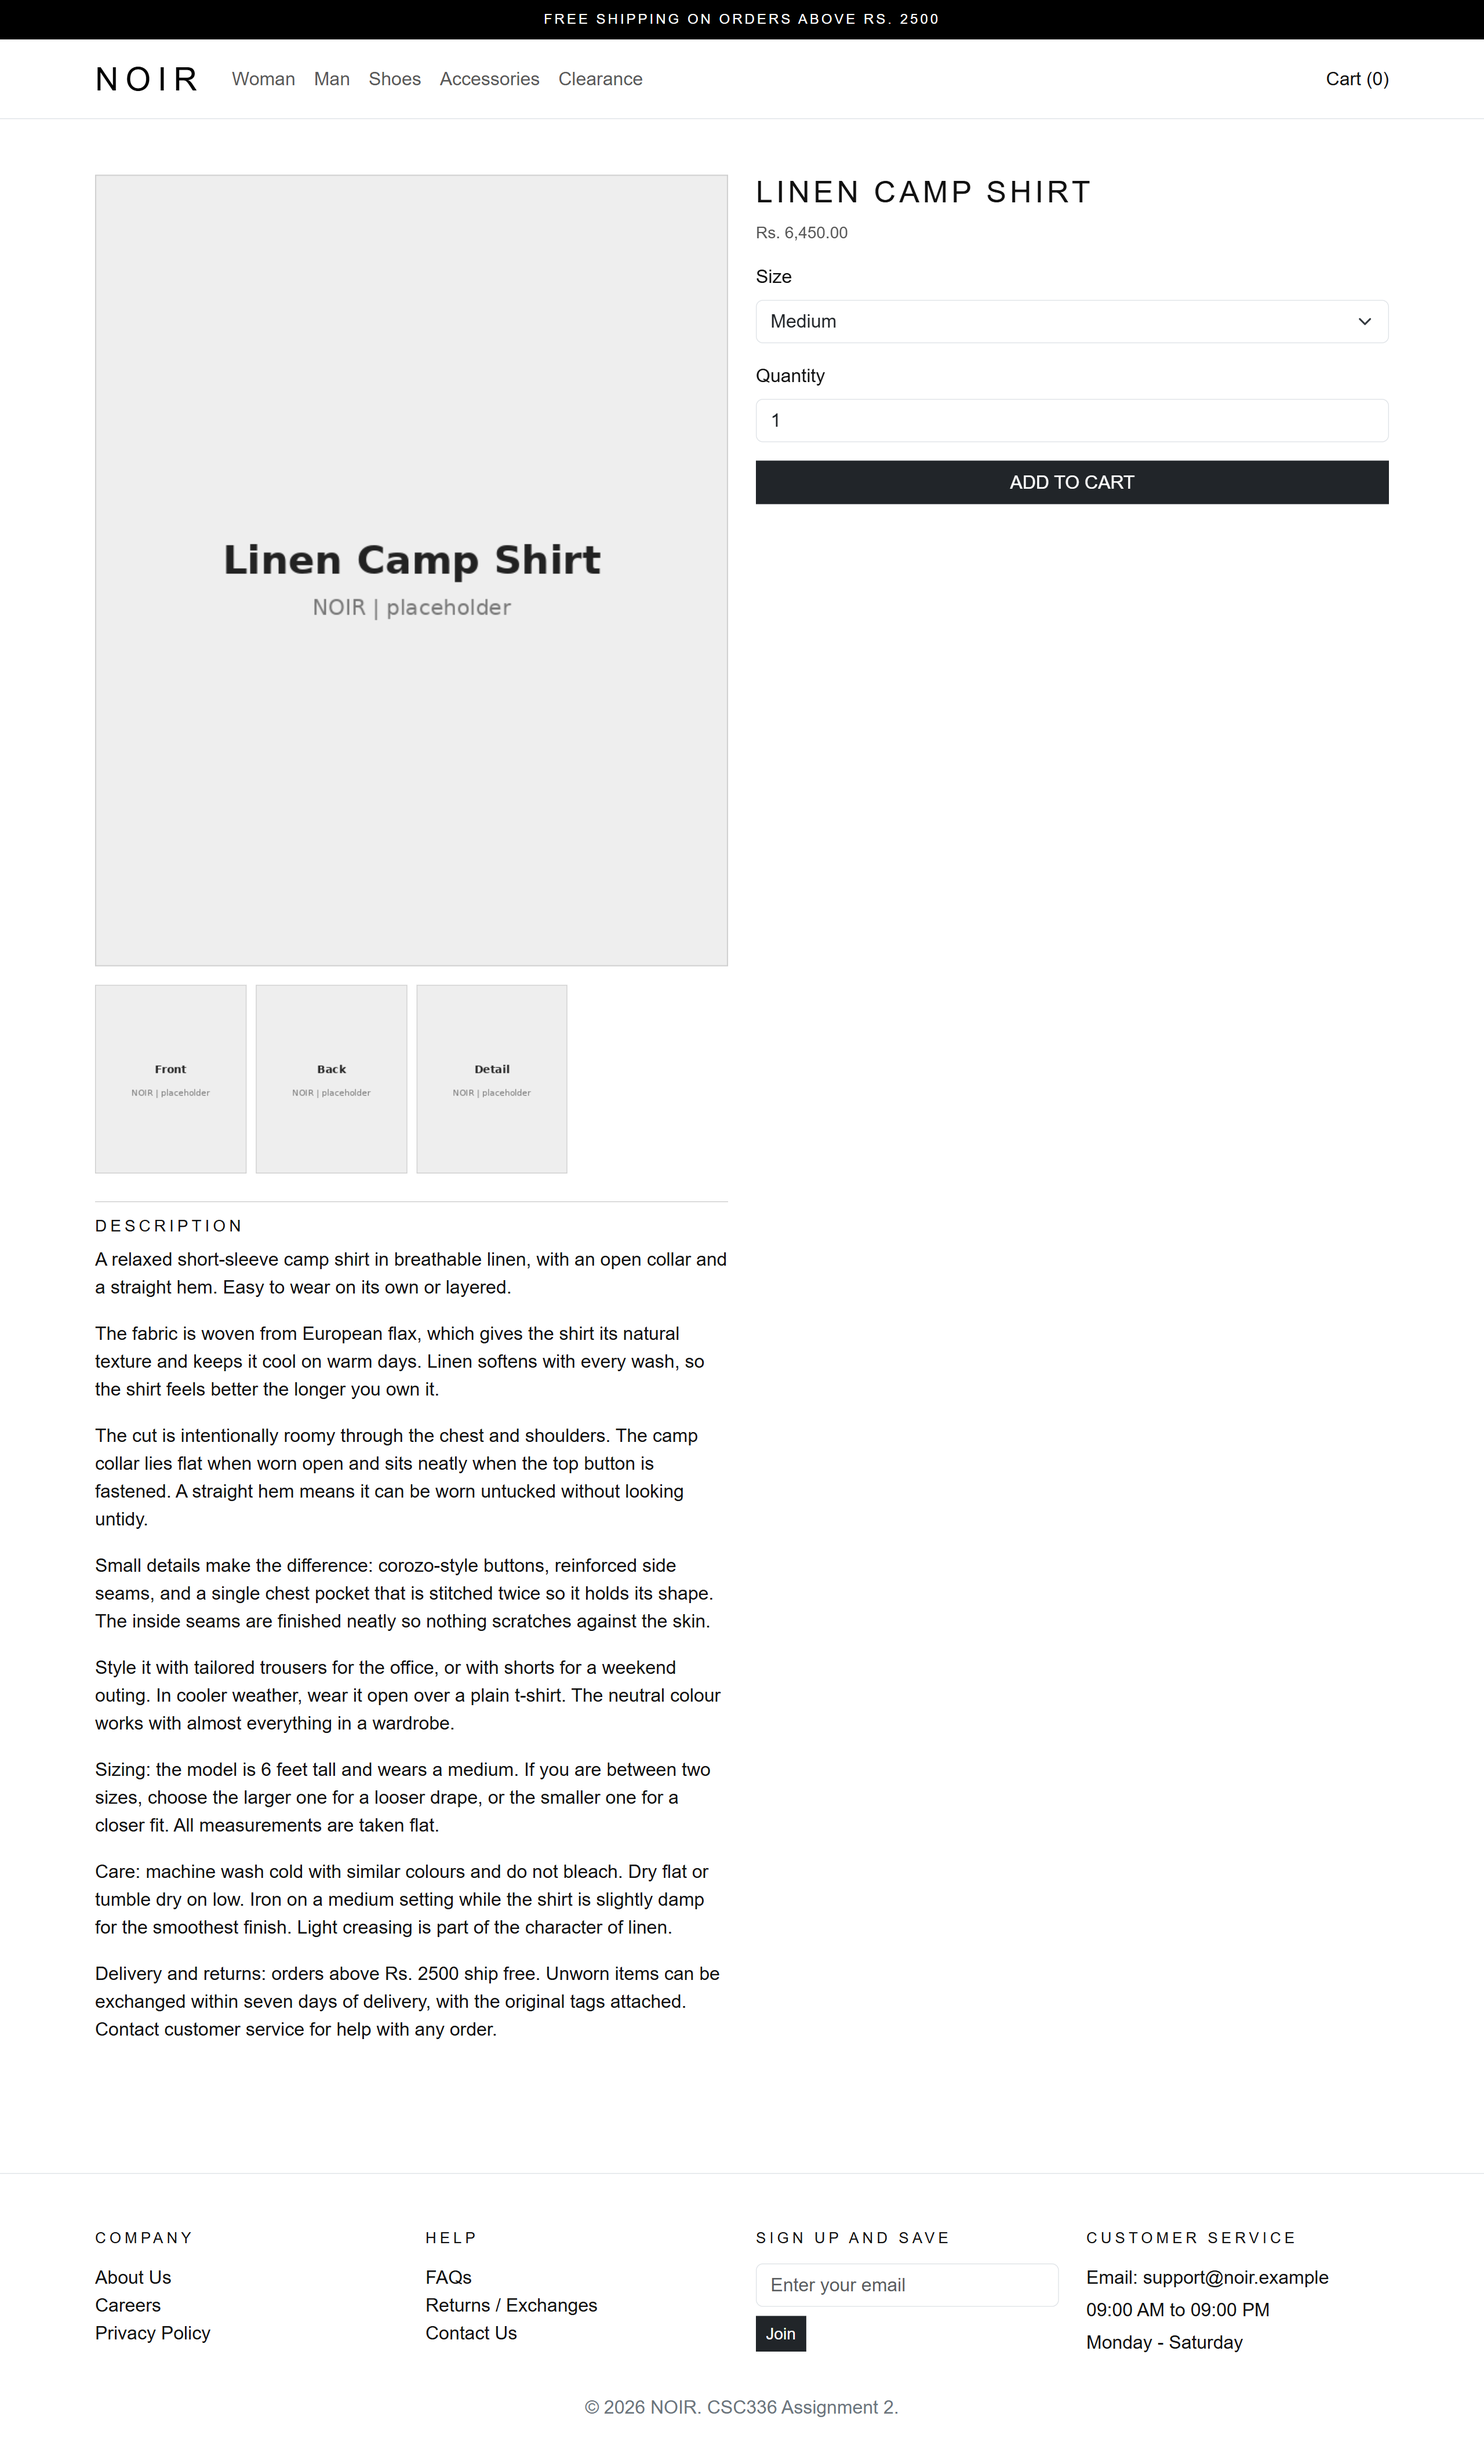
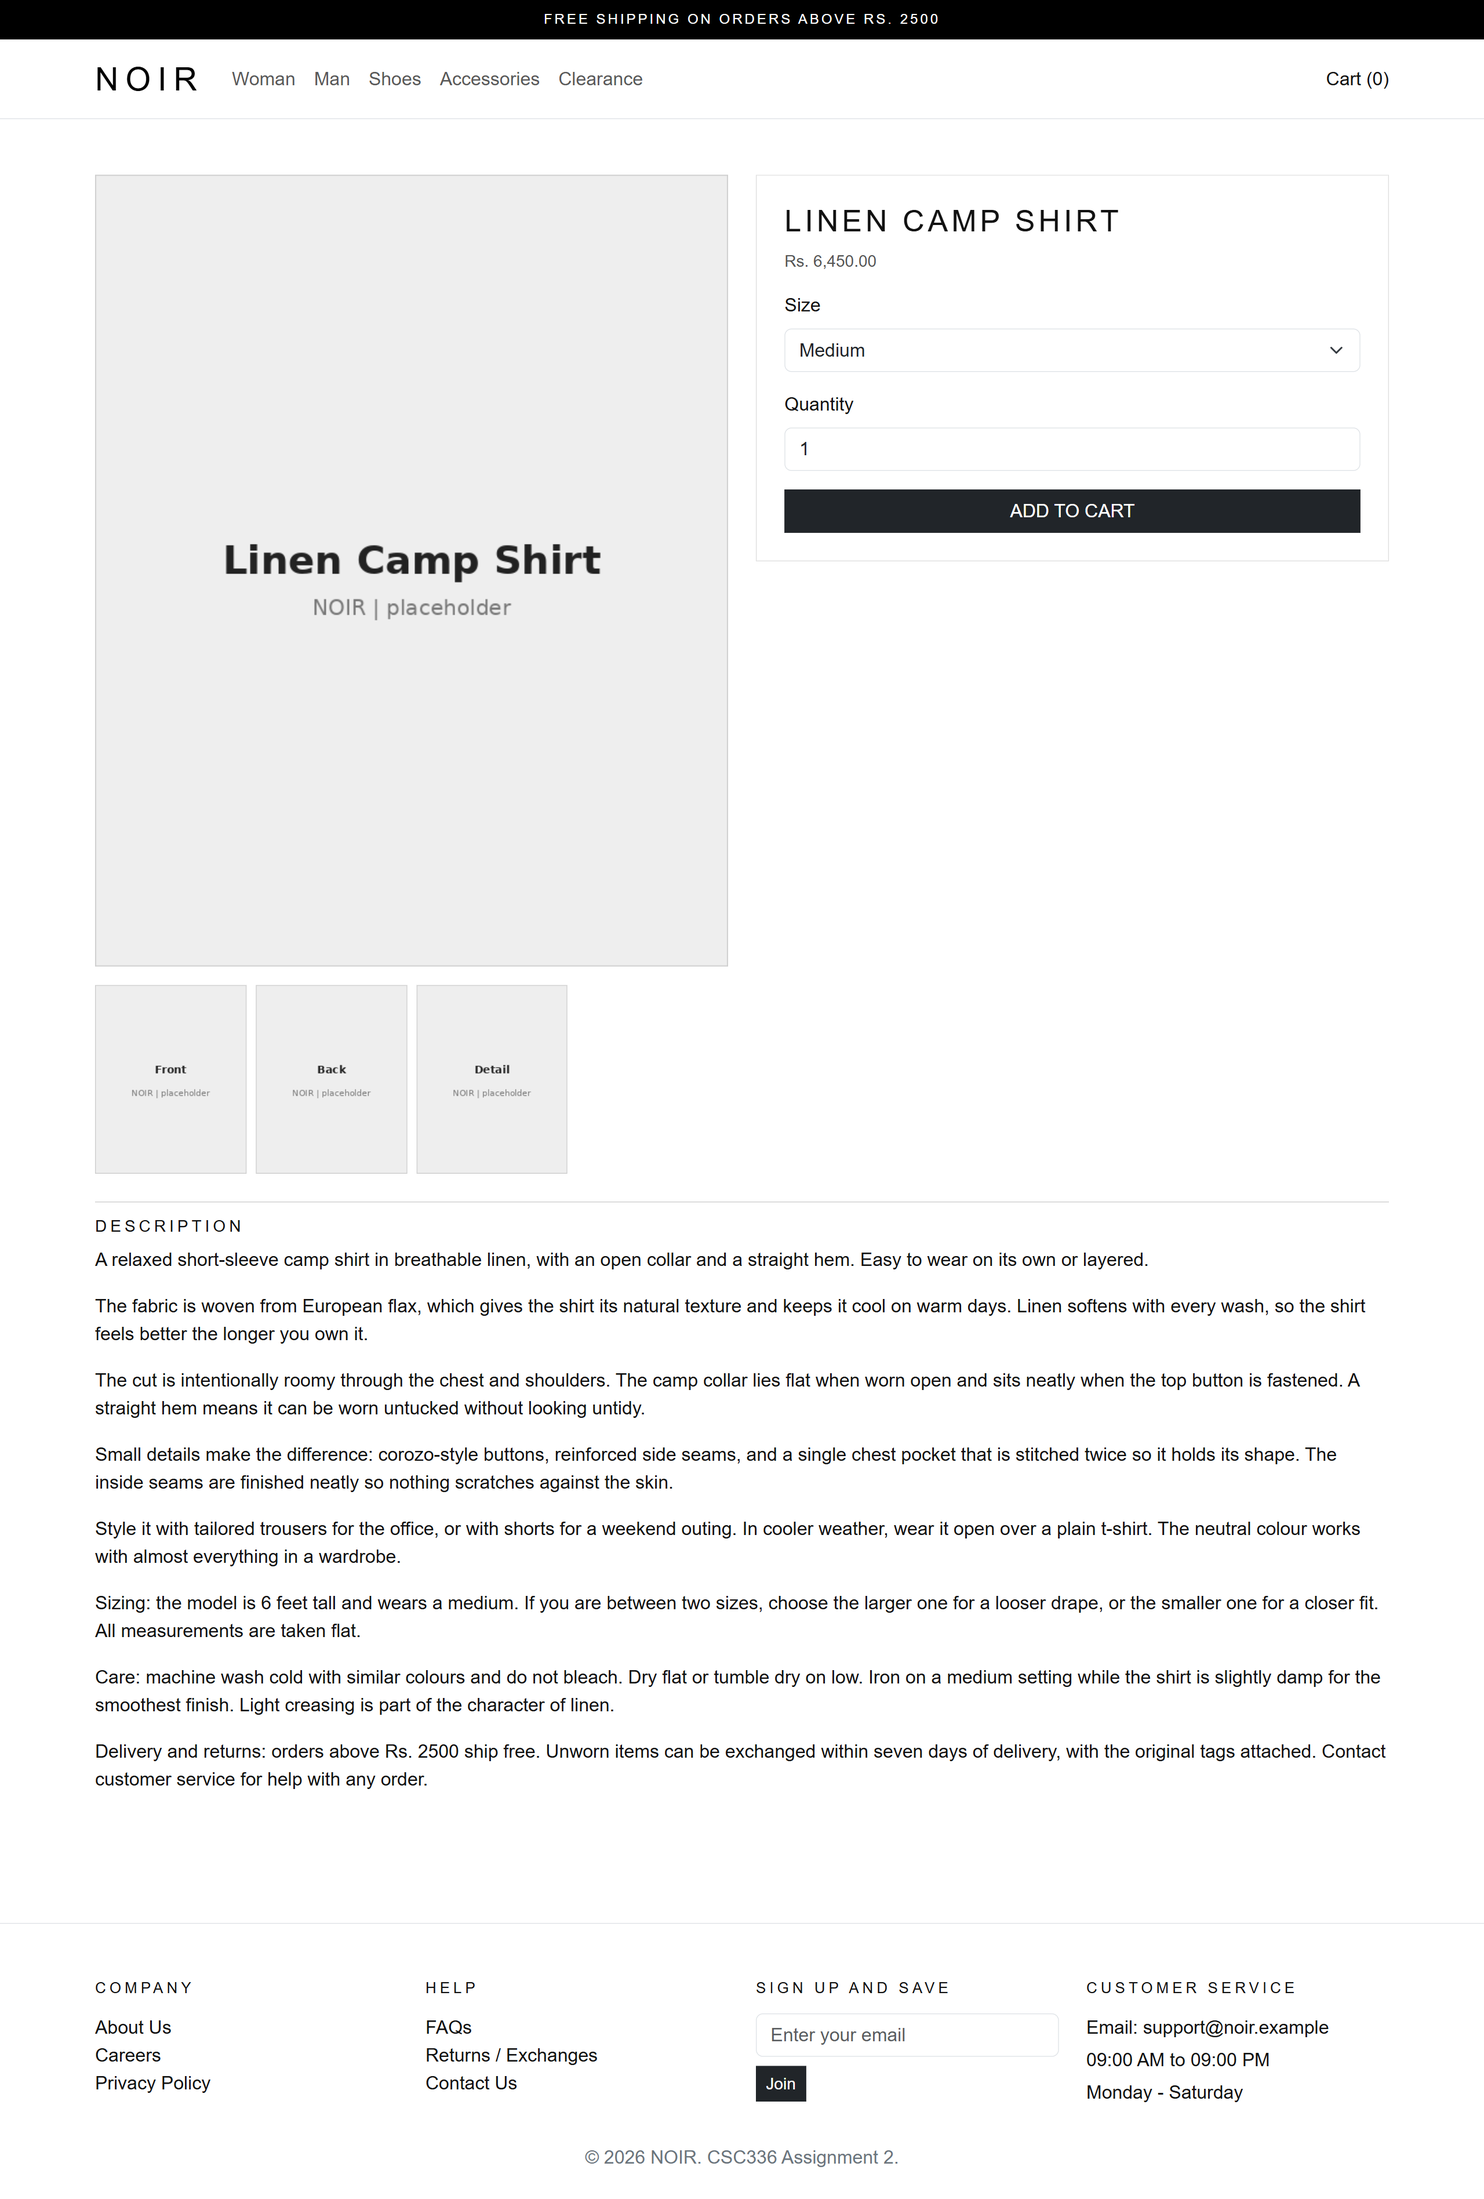
midterm: task 2 sticky box stays inside its grid row

diff --git a/midterm/product.html b/midterm/product.html
@@ -90,27 +90,29 @@
 
         <!-- Details box (sticky from 609px and wider) -->
         <div class="product-details">
-          <h1 class="product-title">LINEN CAMP SHIRT</h1>
-          <p class="price">Rs. 6,450.00</p>
+          <div class="details-box">
+            <h1 class="product-title">LINEN CAMP SHIRT</h1>
+            <p class="price">Rs. 6,450.00</p>
 
-          <label for="size" class="form-label">Size</label>
-          <select id="size" class="form-select mb-3">
-            <option>Small</option>
-            <option selected>Medium</option>
-            <option>Large</option>
-            <option>X-Large</option>
-          </select>
+            <label for="size" class="form-label">Size</label>
+            <select id="size" class="form-select mb-3">
+              <option>Small</option>
+              <option selected>Medium</option>
+              <option>Large</option>
+              <option>X-Large</option>
+            </select>
 
-          <label for="quantity" class="form-label">Quantity</label>
-          <input
-            type="number"
-            id="quantity"
-            class="form-control mb-3"
-            value="1"
-            min="1"
-          />
+            <label for="quantity" class="form-label">Quantity</label>
+            <input
+              type="number"
+              id="quantity"
+              class="form-control mb-3"
+              value="1"
+              min="1"
+            />
 
-          <button type="button" class="btn btn-dark w-100">ADD TO CART</button>
+            <button type="button" class="btn btn-dark w-100">ADD TO CART</button>
+          </div>
         </div>
 
         <!-- Description (long, so the page scrolls) -->

diff --git a/midterm/css/styles.css b/midterm/css/styles.css
@@ -156,6 +156,9 @@ main:has(#cat-accessories:checked) .col:not(.accessories) {
 
 .product-details {
   grid-area: details;
+}
+
+.details-box {
   border: 1px solid #dddddd;
   padding: 24px;
   background-color: #ffffff;
@@ -175,10 +178,12 @@ main:has(#cat-accessories:checked) .col:not(.accessories) {
       "description description";
   }
 
-  .product-details {
+  /* The sticky box lives inside .product-details, which is as tall as the
+     image row, so the box stops at the bottom of that row and never
+     covers the description. */
+  .details-box {
     position: sticky;
     top: 79px;
-    align-self: start;
   }
 }
 
